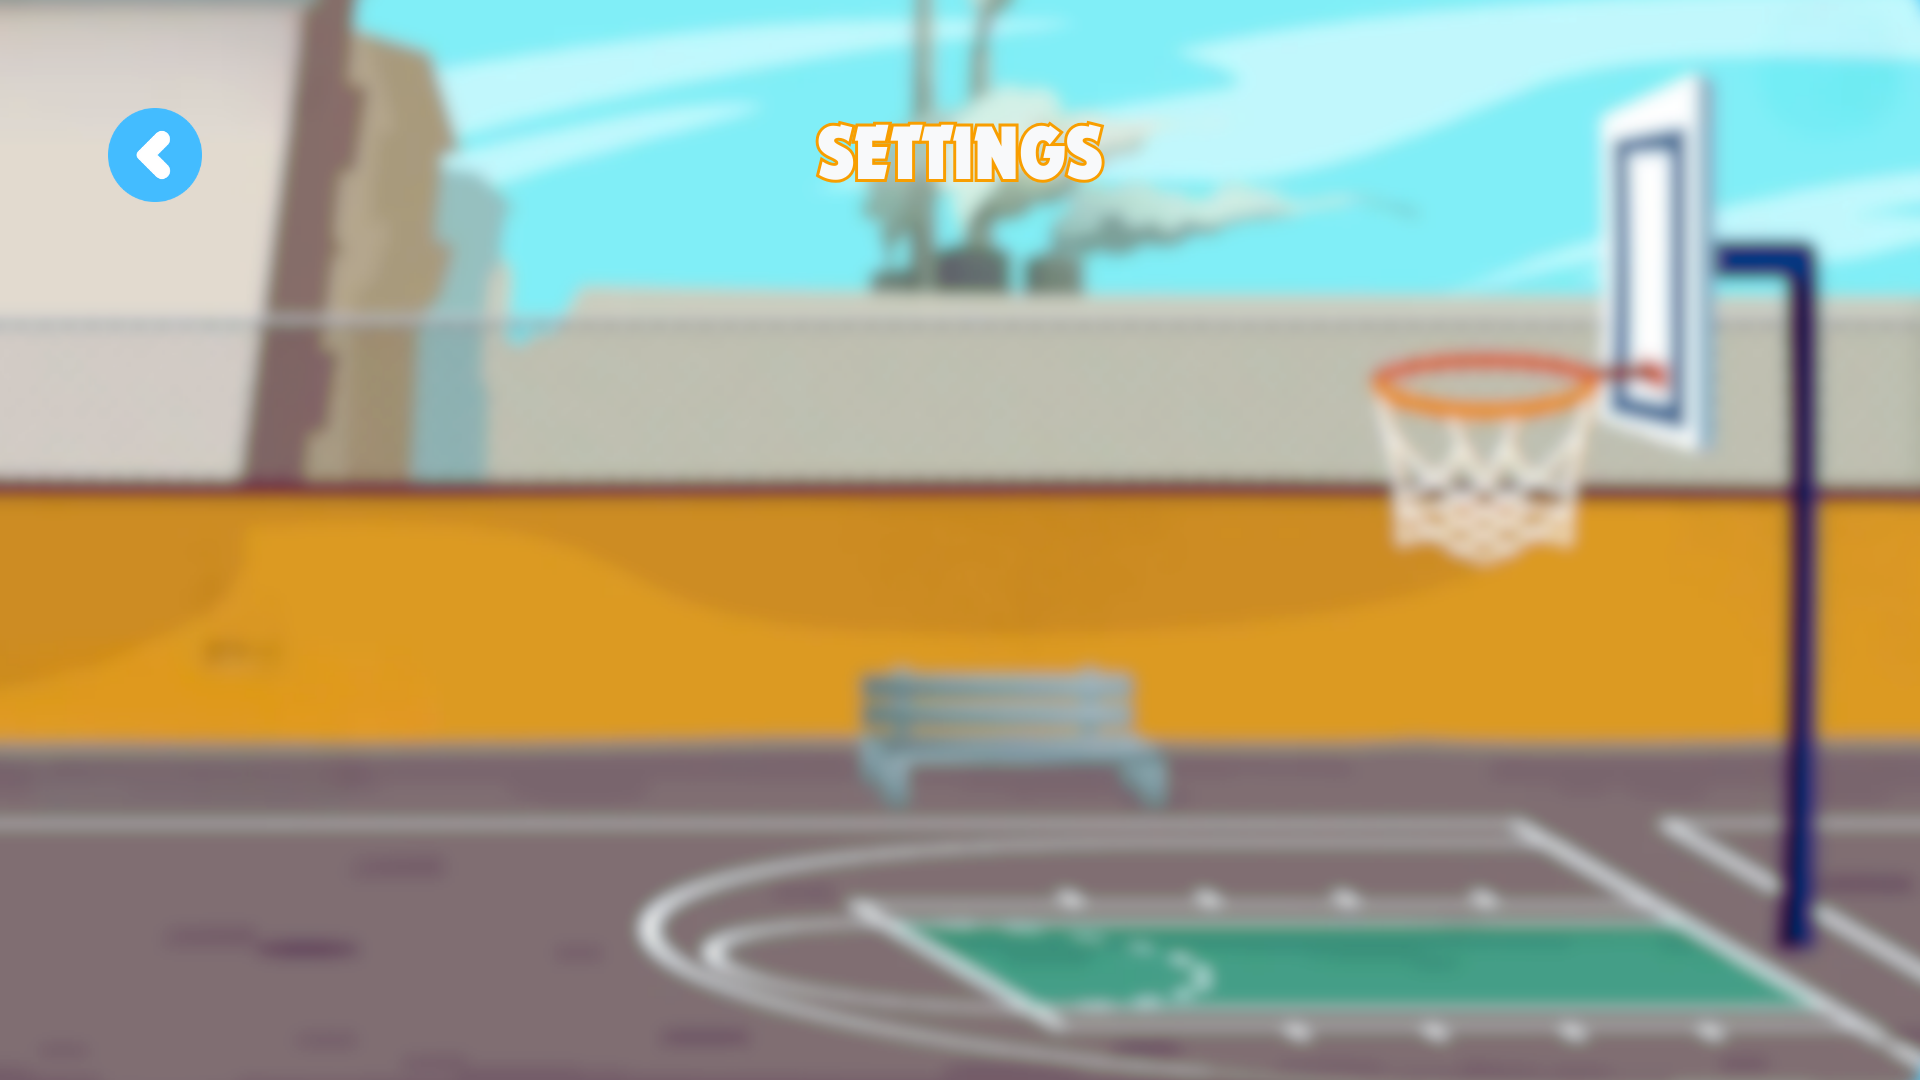
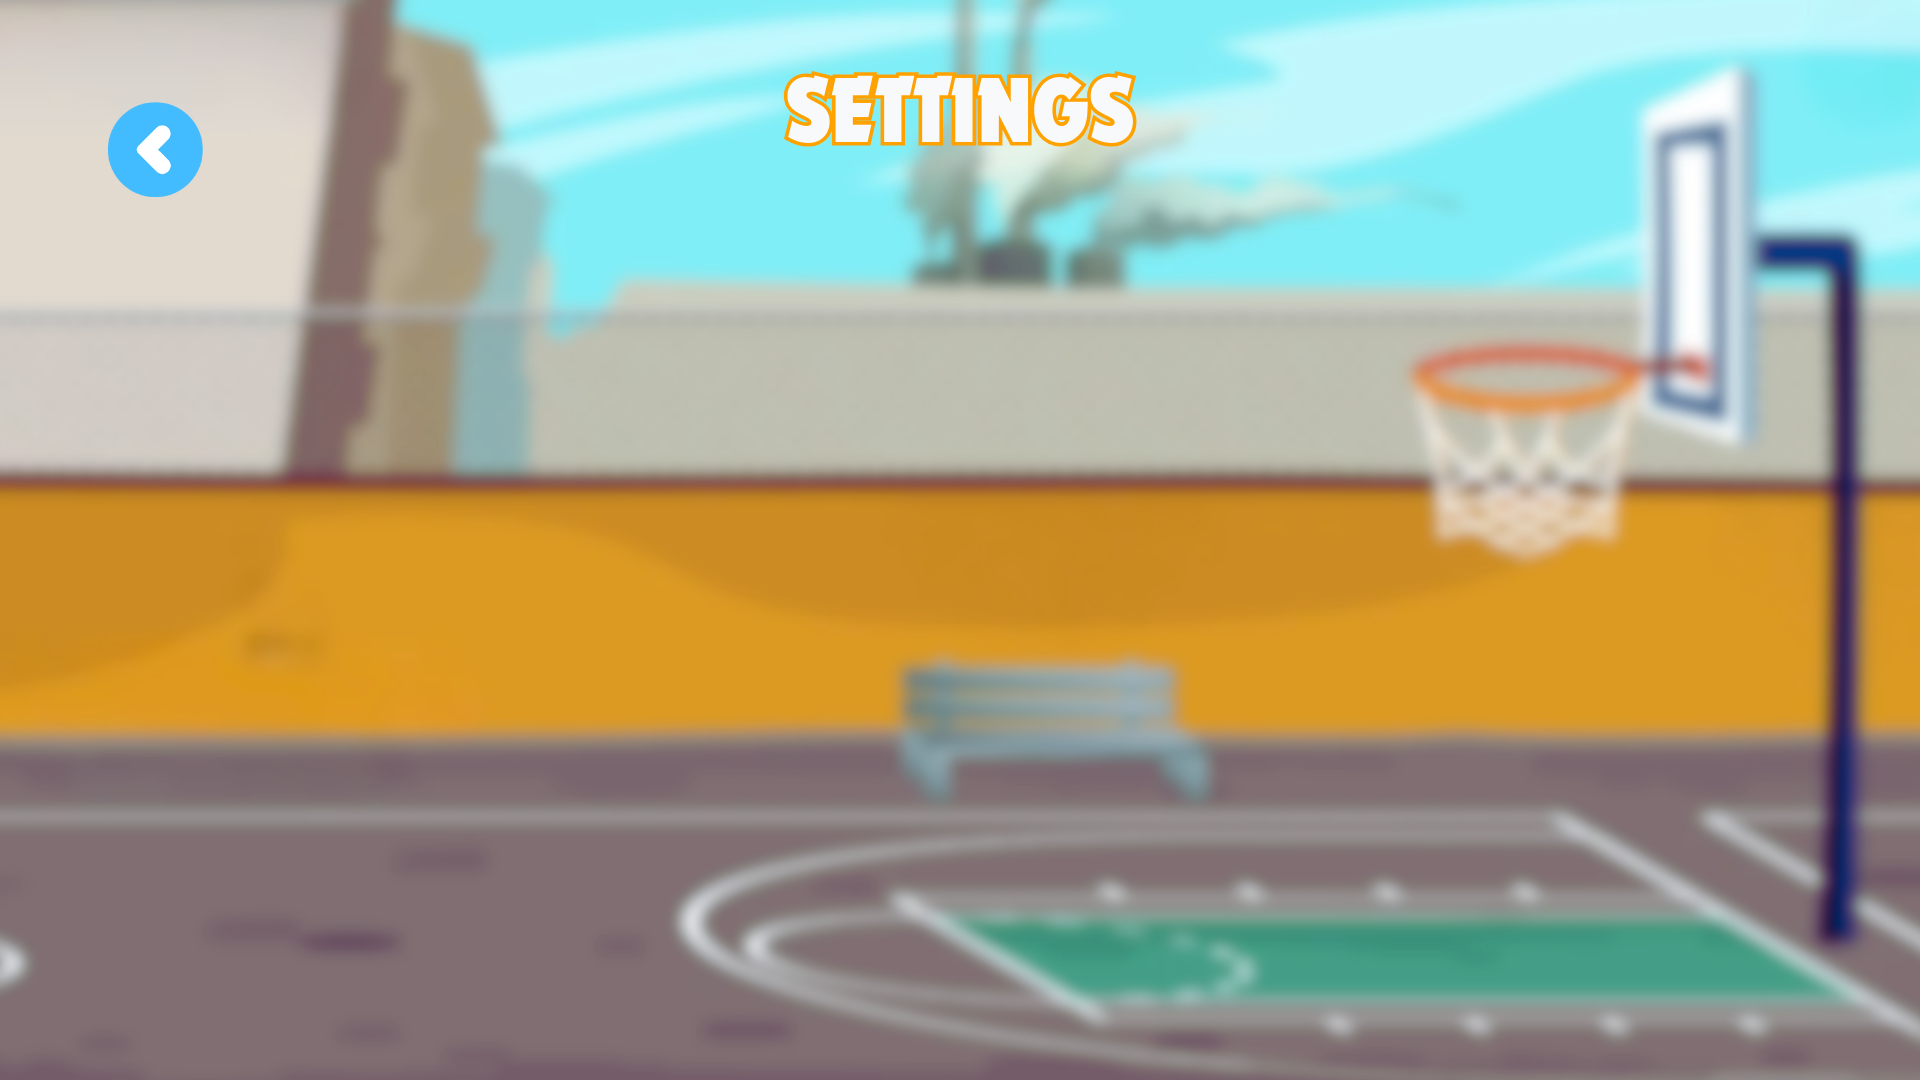
Add Instruction State

diff --git a/main.py b/main.py
@@ -2,6 +2,7 @@ import pygame
 from constants import *
 from scripts.menuState import MenuState
 from scripts.settingsState import SettingsState
+from scripts.instructionState import InstructionState
 
 def main():
     pygame.init()
@@ -13,6 +14,8 @@ def main():
     menu_state = MenuState(screen)
     # SettingsState object
     settings_state = SettingsState(screen)
+    # InstructionState object
+    instruction_state = InstructionState(screen)
 
 
     current_state = menu_state
@@ -28,7 +31,7 @@ def main():
         elif next_state == 'game':
             pass 
         elif next_state == 'instructions':
-            pass
+            current_state = instruction_state
         elif next_state == 'settings':
             current_state = settings_state
     

diff --git a/scripts/instructionState.py b/scripts/instructionState.py
@@ -3,7 +3,7 @@ from scripts.button import Button
 from scripts.gameState import GameState
 from constants import SCREEN_WIDTH, SCREEN_HEIGHT
 
-class SettingsState(GameState):
+class InstructionState(GameState):
     """Settings menu of the Basketball shooter"""
 
     def __init__(self, screen):
@@ -12,7 +12,7 @@ class SettingsState(GameState):
         self.screen = screen
 
         # Load the background image and get its rect.
-        self.background_img = pygame.image.load('assets/images/settings.png')
+        self.background_img = pygame.image.load('assets/images/instructions.png')
         self.background_img = pygame.transform.scale(self.background_img, (SCREEN_WIDTH, SCREEN_HEIGHT))
         self.background_img_rect = self.background_img.get_rect()
 
